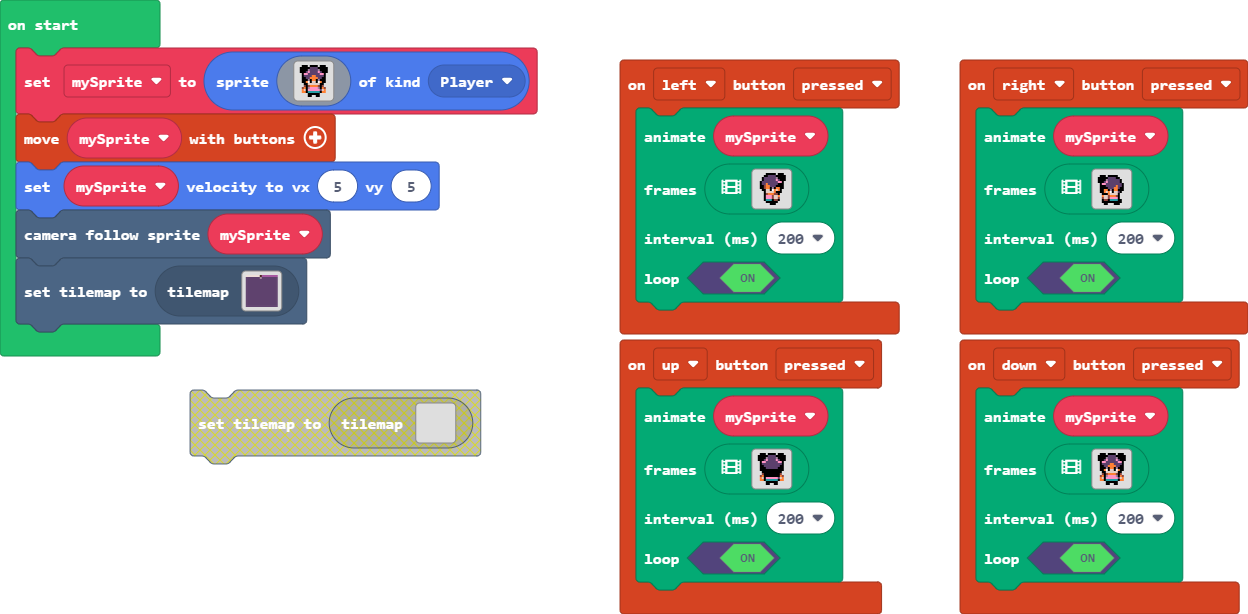
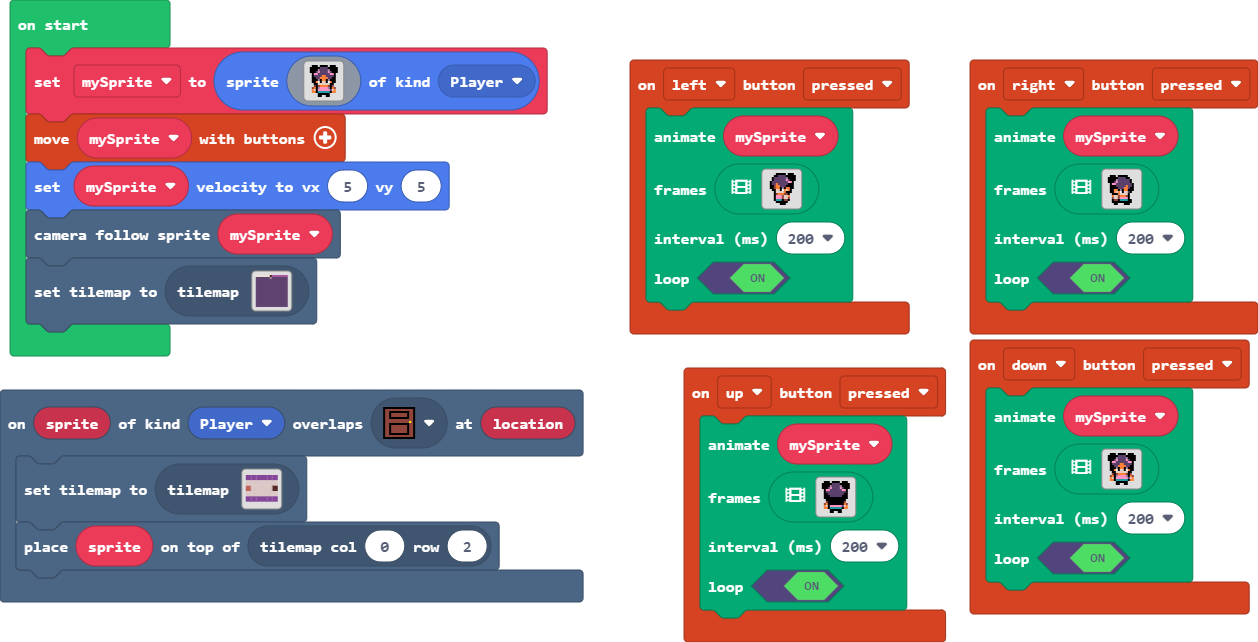
Update main.blocks, main.ts, tilemap.g.jres, tilemap.g.ts

diff --git a/tilemap.g.ts b/tilemap.g.ts
@@ -8,6 +8,12 @@ namespace myTiles {
     export const tile2 = image.ofBuffer(hex``);
     //% fixedInstance jres blockIdentity=images._tile
     export const tile3 = image.ofBuffer(hex``);
+    //% fixedInstance jres blockIdentity=images._tile
+    export const tile4 = image.ofBuffer(hex``);
+    //% fixedInstance jres blockIdentity=images._tile
+    export const tile5 = image.ofBuffer(hex``);
+    //% fixedInstance jres blockIdentity=images._tile
+    export const tile7 = image.ofBuffer(hex``);
 
     helpers._registerFactory("tilemap", function(name: string) {
         switch(helpers.stringTrim(name)) {
@@ -87,6 +93,14 @@ namespace myTiles {
 . . . . . . . . . . . . . . . . 
 . . . . . . . . . . . . . . . . 
 `, [myTiles.transparency16], TileScale.Sixteen);
+            case "level5":
+            case "level5":return tiles.createTilemap(hex`06000500030303030303020202020202050202020201020202020202040404040404`, img`
+2 2 2 2 2 2 
+. . . . . . 
+. . . . . . 
+. . . . . . 
+2 2 2 2 2 2 
+`, [myTiles.transparency16,myTiles.tile2,sprites.dungeon.floorLight0,sprites.dungeon.purpleOuterNorth0,sprites.dungeon.purpleOuterSouth1,sprites.dungeon.stairLadder], TileScale.Sixteen);
         }
         return null;
     })
@@ -99,6 +113,10 @@ namespace myTiles {
             case "myTile0":
             case "tile2":return tile2;
             case "tile3":return tile3;
+            case "tile4":return tile4;
+            case "tile5":return tile5;
+            case "myTile2":
+            case "tile7":return tile7;
         }
         return null;
     })

diff --git a/main.ts b/main.ts
@@ -1,3 +1,7 @@
+scene.onOverlapTile(SpriteKind.Player, assets.tile`myTile0`, function (sprite, location) {
+    tiles.setCurrentTilemap(tilemap`level5`)
+    tiles.placeOnTile(sprite, tiles.getTileLocation(0, 2))
+})
 controller.up.onEvent(ControllerButtonEvent.Pressed, function () {
     animation.runImageAnimation(
     mySprite,
